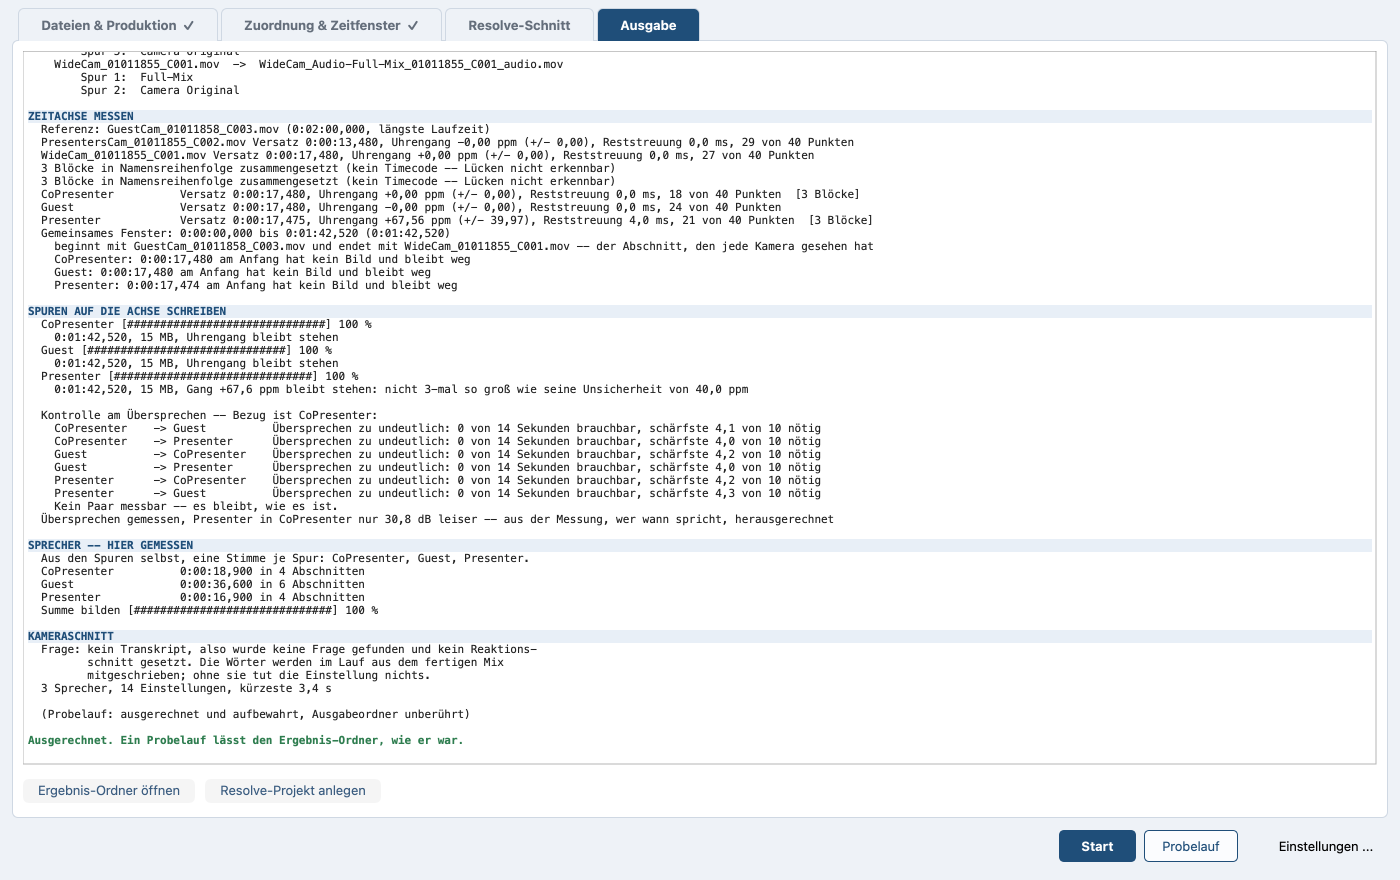
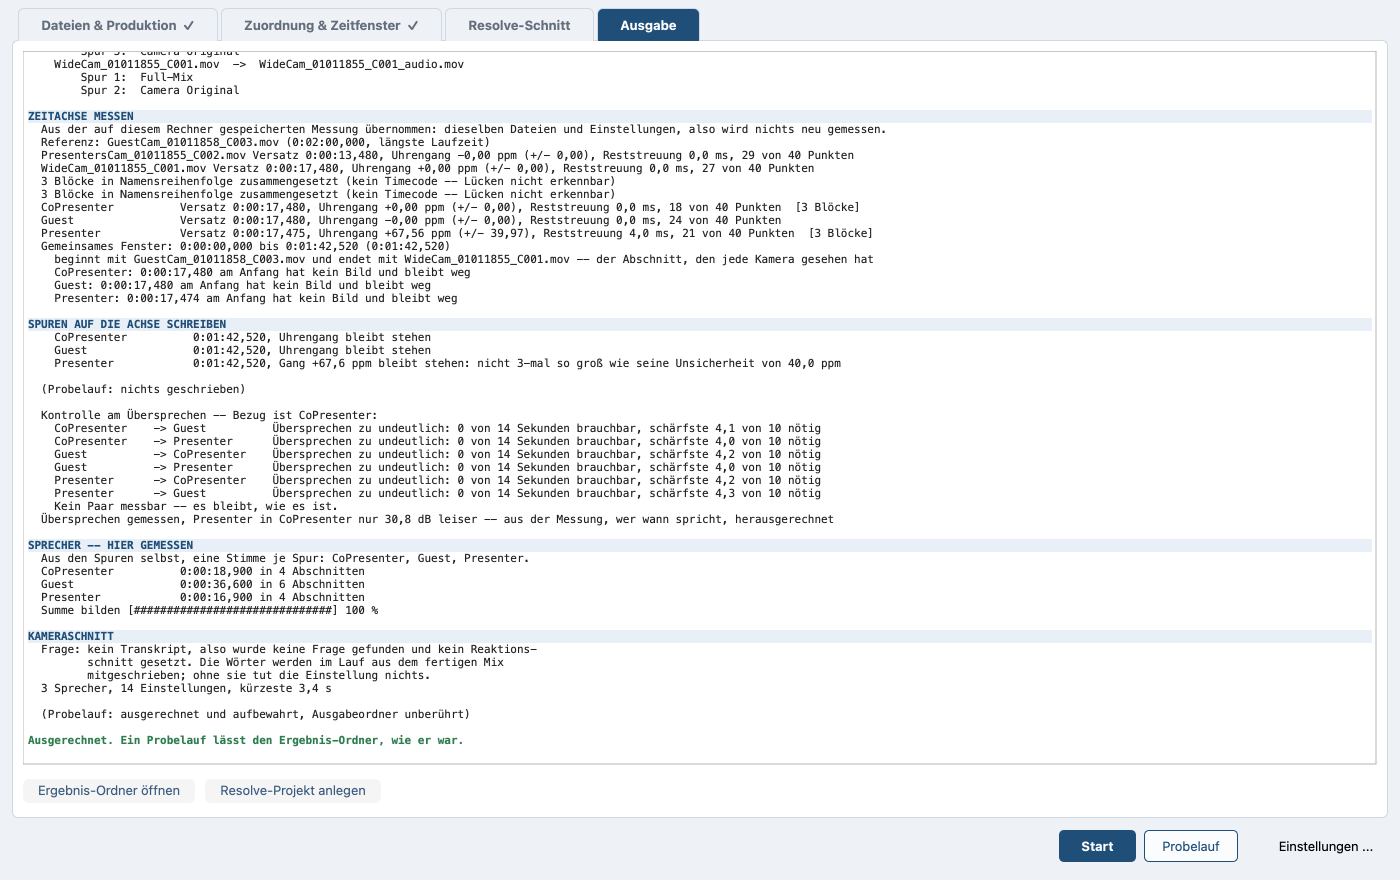
Manual pictures show the 3.0.0b29 window, and the camera-cut chapter shows the finished cut with its legend (E-637, E-474)
Taken on this Mac with the cocoa platform after window_captions_fit and
the four _langs tests went green with the real font in every language.
Changed, both languages: assignment and voices (no Multitrack box, the
grey line that names the preset kind, a camera nobody is on keeps its
own stem), resolve-cut (the wide camera's own stem; German says
"Transkript"), output (the b29 log lines) and the new cut-band picture,
which the camera-cut chapter now shows in place of resolve-cut, so each
chapter keeps one picture. files, blocks, channels and settings came out
unchanged apart from a text cursor and stay as they were.

Under macOS 27 the off-screen window was not always the key window: the
English voices picture and the German resolve-cut draw one set box grey;
seen.tsv says so for each.

Changed region(s): [[0.0, 0.1227, 0.6143, 0.4602], [0.215, 0.0614, 0.3993, 0.092]]

diff --git a/docs/camera-cut.de.md b/docs/camera-cut.de.md
@@ -93,11 +93,11 @@ nächsten Start, sobald einmal eine von Hand auf- oder zugeklappt wurde;
 bis dahin sind alle offen, und eine Gruppe, in der ein Wert von der
 Vorgabe abweicht, wird als letzte zugeklappt, wenn der Platz knapp wird.
 
-![Die Stellschrauben für den Kameraschnitt](images/resolve-cut.de.png)
+![Der fertige Schnitt mit Schnittband und Legende](images/cut-band.de.png)
 
-*Reiter Resolve-Schnitt: links die Werte in drei Gruppen, die sich
-zuklappen lassen, rechts die Vorschau. Die Wörter sind hier schon
-aufgeschrieben, darum wirkt jede Einstellung.*
+*Die Vorschau im Reiter Resolve-Schnitt, wenn der Schnitt gerechnet
+ist: seine Zahlen über dem Player, darunter das Band der Einstellungen
+und die Legende mit dem Anteil jeder Kamera.*
 
 Alle neun Felder nehmen Sekunden, und die Zahl in jeder Zeile ist die
 Vorgabe. Ein leeres Feld heißt Vorgabe, ein Komma gilt als

diff --git a/docs/camera-cut.md b/docs/camera-cut.md
@@ -83,11 +83,11 @@ once one has been opened or shut by hand; until then all of them open,
 and a group holding a value off its default is the last to be shut for
 room.
 
-![The knobs for the camera cut](images/resolve-cut.png)
+![The finished cut with its band and legend](images/cut-band.png)
 
-*Tab Resolve cut: the values on the left in three groups that fold
-away, the preview on the right. Words are written down here, so every
-setting is active.*
+*The preview on the tab Resolve cut once the cut is worked out: its
+numbers over the player, the band of shots under it, and the legend
+with each camera's share.*
 
 All nine fields take seconds, and the number in each line is the
 default. An empty field means the default, a comma counts as the decimal
